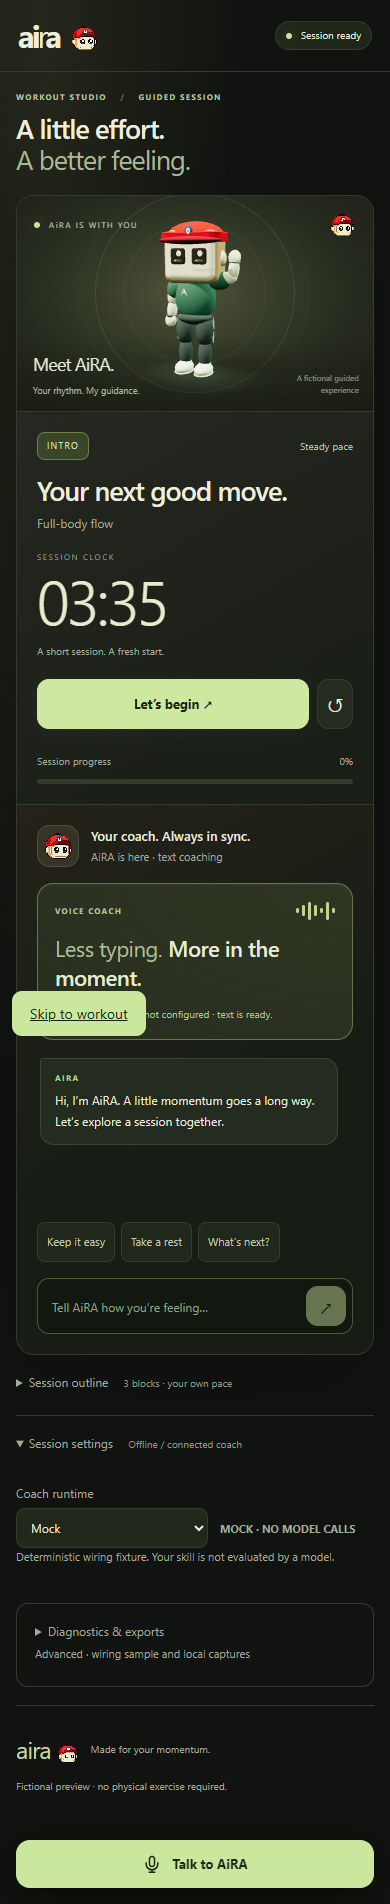
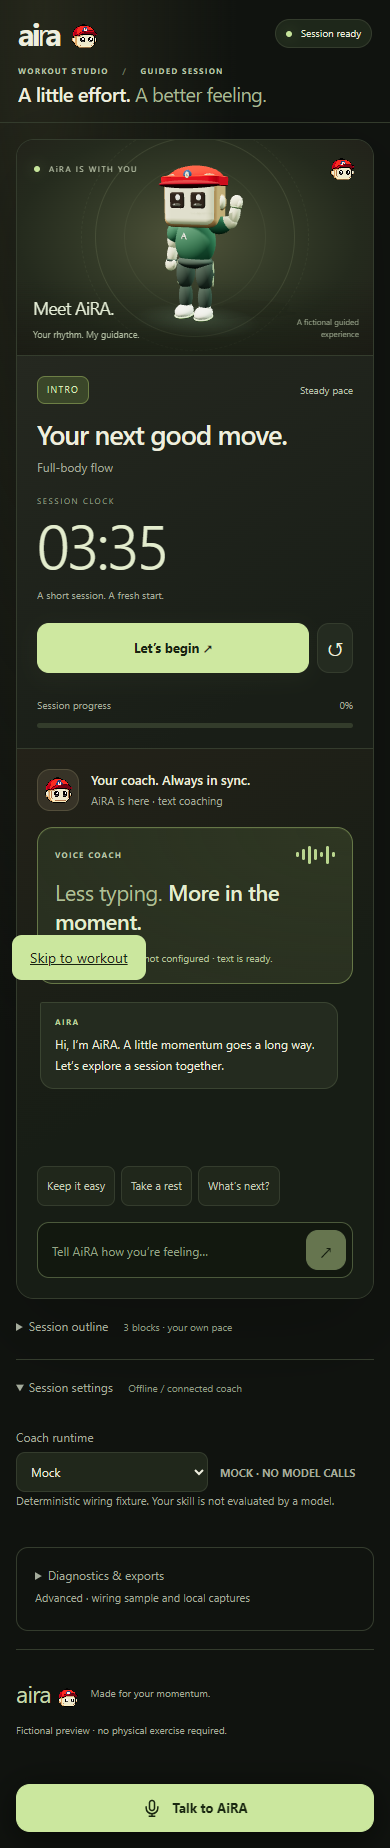
Phase 1 MVP: compact studio heading into header

diff --git a/src/web/styles.css b/src/web/styles.css
@@ -1,14 +1,14 @@
 /* AiRA studio — local, responsive, with state-driven voice feedback. */
 :root{color-scheme:dark;--ink:#eeeede;--muted:#a4ab9b;--paper:#10130f;--green:#cee8a0;--line:#343c2d;--surface:#191e17;--brown:#352d24;--serif:'Segoe UI',Arial,sans-serif}
-*{box-sizing:border-box}body{margin:0;background:radial-gradient(ellipse at 10% 0%,#25271b 0%,transparent 40%),var(--paper);color:var(--ink);font:14px/1.5 'Segoe UI',Arial,sans-serif}button,input,textarea,select{font:inherit}a{color:inherit}h1,h2,h3,p{margin:0}button{cursor:pointer;min-height:44px;padding:10px 16px;color:var(--ink);background:#242b20;border:1px solid var(--line);border-radius:12px;transition:background .2s,border-color .2s,transform .2s}button:hover:not(:disabled){background:#333f29;border-color:#65744d;transform:translateY(-1px)}button:disabled{opacity:.45;cursor:default}button.primary{background:var(--green);color:#192411;border-color:var(--green);font-weight:650;box-shadow:0 5px 20px #bedf7a0b}button.primary:hover:not(:disabled){background:#e0f6b9;border-color:#e0f6b9}button:focus-visible,input:focus-visible,textarea:focus-visible,select:focus-visible,summary:focus-visible,a:focus-visible{outline:2px solid #d5eca8;outline-offset:4px}button[aria-pressed=true]{border-color:#b5d27e;background:#384429}.topbar{max-width:1500px;padding:24px 36px;margin:auto;display:flex;align-items:center;justify-content:space-between;border-bottom:1px solid var(--line);gap:16px}.brand{text-decoration:none;font-size:36px;font-weight:700;letter-spacing:-3px;line-height:1;display:flex;align-items:center}.brand>span:first-child{font-weight:400}.brand-dot{margin-left:10px;letter-spacing:0}.header-note{font-size:10px;letter-spacing:2px;color:var(--muted)}.session-badge{display:flex;align-items:center;gap:9px;border:1px solid var(--line);border-radius:30px;padding:7px 13px;font-size:11px;background:#1e271a}.session-badge i,.live-dot{height:6px;width:6px;border-radius:50%;background:#c6e49b;box-shadow:0 0 12px #bde27c55;display:inline-block}main{max-width:1500px;padding:0 36px;margin:auto}.session-heading{display:flex;justify-content:space-between;align-items:flex-end;gap:20px;padding:29px 0 25px}.eyebrow{font-size:9px;font-weight:650;letter-spacing:1.8px;color:#b9c5a8}.heading-divider{margin:0 10px;color:#68745c}h1{font-size:clamp(25px,3vw,38px);letter-spacing:-1.6px;font-weight:600;line-height:1.15;margin-top:10px}h1 span{color:#a8b995;font-weight:400}.heading-note{font-size:12px;line-height:1.8;color:var(--muted)}.session-card{display:grid;grid-template-columns:260px minmax(260px,1fr) 370px;border:1px solid var(--line);border-radius:24px;overflow:hidden;background:var(--surface);box-shadow:0 28px 90px #0003;min-height:620px}.session-main{padding:28px 24px;display:flex;flex-direction:column;min-width:0;background:linear-gradient(150deg,#252820,#191e17 80%);border-right:1px solid var(--line)}.session-topline{display:flex;align-items:center;justify-content:space-between;gap:8px;margin-bottom:30px}.phase-pill{font-size:9px;letter-spacing:1.2px;text-transform:uppercase;border:1px solid #6d7f45;background:#3a4629;color:#d9ebbc;border-radius:8px;padding:6px 9px}.pace-label{font-size:10px;color:#b7c0aa}.session-main h2{font-size:29px;font-weight:550;letter-spacing:-1px;line-height:1.15;text-wrap:balance;min-height:1.1em}.movement-label{font-size:12px;color:var(--muted);margin-top:12px;line-height:1.7}.timer-display{display:flex;flex-direction:column;padding:34px 0 24px;min-height:174px}.timer-eyebrow{font-size:9px;letter-spacing:1.6px;color:#98a18a}.timer-display #session-timer{font-size:72px;line-height:1.2;letter-spacing:-4px;font-weight:350;font-variant-numeric:tabular-nums;display:inline-block;min-width:3.1ch;color:#e3eccd}.timer-display #timer-caption{font-size:11px;color:var(--muted);margin-top:6px}.session-controls{display:flex;flex-wrap:wrap;gap:8px;margin:22px 0}.session-controls .primary{flex:1 1 100%;font-size:13px;padding:14px 16px}.session-controls button:not(.primary){font-size:11px;flex:1;white-space:nowrap;padding:9px}.session-controls .icon-button{max-width:44px;font-size:20px!important}#session-progress{margin-top:auto;padding-top:30px}.session-progress{display:grid;grid-template-columns:1fr auto;gap:10px;font-size:10px;color:var(--muted)}.progress-track{grid-column:1/-1;height:5px;background:#333c2b;border-radius:8px;overflow:hidden}.progress-fill{height:100%;border-radius:8px;background:linear-gradient(90deg,#899f61,#d7eead);transition:width .4s ease}.energy-options{display:flex;flex-wrap:wrap;gap:7px;margin-top:15px}.energy-options button{font-size:11px;padding:8px 10px;min-height:44px}.adaptation-note{margin-top:15px;padding:12px;border:1px solid #53633b;border-radius:10px;background:#2c3622;color:#d2e2b8;font-size:11px;line-height:1.7}
+*{box-sizing:border-box}body{margin:0;background:radial-gradient(ellipse at 10% 0%,#25271b 0%,transparent 40%),var(--paper);color:var(--ink);font:14px/1.5 'Segoe UI',Arial,sans-serif}button,input,textarea,select{font:inherit}a{color:inherit}h1,h2,h3,p{margin:0}button{cursor:pointer;min-height:44px;padding:10px 16px;color:var(--ink);background:#242b20;border:1px solid var(--line);border-radius:12px;transition:background .2s,border-color .2s,transform .2s}button:hover:not(:disabled){background:#333f29;border-color:#65744d;transform:translateY(-1px)}button:disabled{opacity:.45;cursor:default}button.primary{background:var(--green);color:#192411;border-color:var(--green);font-weight:650;box-shadow:0 5px 20px #bedf7a0b}button.primary:hover:not(:disabled){background:#e0f6b9;border-color:#e0f6b9}button:focus-visible,input:focus-visible,textarea:focus-visible,select:focus-visible,summary:focus-visible,a:focus-visible{outline:2px solid #d5eca8;outline-offset:4px}button[aria-pressed=true]{border-color:#b5d27e;background:#384429}.topbar{max-width:1500px;padding:20px 36px;margin:auto;display:flex;align-items:center;justify-content:space-between;border-bottom:1px solid var(--line);gap:16px}.brand{text-decoration:none;font-size:36px;font-weight:700;letter-spacing:-3px;line-height:1;display:flex;align-items:center}.brand>span:first-child{font-weight:400}.brand-dot{margin-left:10px;letter-spacing:0}.session-badge{display:flex;align-items:center;gap:9px;border:1px solid var(--line);border-radius:30px;padding:7px 13px;font-size:11px;background:#1e271a}.session-badge i,.live-dot{height:6px;width:6px;border-radius:50%;background:#c6e49b;box-shadow:0 0 12px #bde27c55;display:inline-block}main{max-width:1500px;padding:20px 36px 0;margin:auto}.session-heading{display:flex;align-items:center;justify-content:space-between;flex:1;min-width:0;gap:24px;margin-left:24px}.eyebrow{font-size:9px;font-weight:650;letter-spacing:1.8px;color:#b9c5a8}.heading-divider{margin:0 10px;color:#68745c}h1{font-size:clamp(18px,1.8vw,24px);letter-spacing:-.7px;font-weight:600;line-height:1.25;margin-top:5px}h1 span{color:#a8b995;font-weight:400}.heading-note{font-size:11px;line-height:1.6;color:var(--muted);flex-shrink:0}.session-badge{flex-shrink:0}.session-card{display:grid;grid-template-columns:260px minmax(260px,1fr) 370px;border:1px solid var(--line);border-radius:24px;overflow:hidden;background:var(--surface);box-shadow:0 28px 90px #0003;min-height:620px}.session-main{padding:28px 24px;display:flex;flex-direction:column;min-width:0;background:linear-gradient(150deg,#252820,#191e17 80%);border-right:1px solid var(--line)}.session-topline{display:flex;align-items:center;justify-content:space-between;gap:8px;margin-bottom:30px}.phase-pill{font-size:9px;letter-spacing:1.2px;text-transform:uppercase;border:1px solid #6d7f45;background:#3a4629;color:#d9ebbc;border-radius:8px;padding:6px 9px}.pace-label{font-size:10px;color:#b7c0aa}.session-main h2{font-size:29px;font-weight:550;letter-spacing:-1px;line-height:1.15;text-wrap:balance;min-height:1.1em}.movement-label{font-size:12px;color:var(--muted);margin-top:12px;line-height:1.7}.timer-display{display:flex;flex-direction:column;padding:34px 0 24px;min-height:174px}.timer-eyebrow{font-size:9px;letter-spacing:1.6px;color:#98a18a}.timer-display #session-timer{font-size:72px;line-height:1.2;letter-spacing:-4px;font-weight:350;font-variant-numeric:tabular-nums;display:inline-block;min-width:3.1ch;color:#e3eccd}.timer-display #timer-caption{font-size:11px;color:var(--muted);margin-top:6px}.session-controls{display:flex;flex-wrap:wrap;gap:8px;margin:22px 0}.session-controls .primary{flex:1 1 100%;font-size:13px;padding:14px 16px}.session-controls button:not(.primary){font-size:11px;flex:1;white-space:nowrap;padding:9px}.session-controls .icon-button{max-width:44px;font-size:20px!important}#session-progress{margin-top:auto;padding-top:30px}.session-progress{display:grid;grid-template-columns:1fr auto;gap:10px;font-size:10px;color:var(--muted)}.progress-track{grid-column:1/-1;height:5px;background:#333c2b;border-radius:8px;overflow:hidden}.progress-fill{height:100%;border-radius:8px;background:linear-gradient(90deg,#899f61,#d7eead);transition:width .4s ease}.energy-options{display:flex;flex-wrap:wrap;gap:7px;margin-top:15px}.energy-options button{font-size:11px;padding:8px 10px;min-height:44px}.adaptation-note{margin-top:15px;padding:12px;border:1px solid #53633b;border-radius:10px;background:#2c3622;color:#d2e2b8;font-size:11px;line-height:1.7}
 .trainer-stage{position:relative;min-width:0;overflow:hidden;display:flex;flex-direction:column;align-items:center;justify-content:center;min-height:620px;background:radial-gradient(ellipse at 48% 45%,#50543a 0%,#343b28 36%,#242a1d 65%,#211f19 100%)}.trainer-stage:after{content:'';position:absolute;inset:0;background:linear-gradient(0deg,#13170e75,transparent 35%);pointer-events:none}.trainer-topline{position:absolute;inset:24px 24px auto;display:flex;align-items:center;gap:9px;font-size:9px;letter-spacing:1.5px;color:#c1cbb0;z-index:2}.trainer-symbol{margin-left:auto}.trainer-orbit{position:absolute;top:50%;left:50%;transform:translate(-50%,-52%);width:min(90%,470px);aspect-ratio:1;border:1px solid #bdd29a20;border-radius:50%;pointer-events:none}.trainer-orbit:before,.trainer-orbit:after{content:'';position:absolute;border-radius:50%;border:1px solid #bdd29a10;inset:28px}.trainer-orbit:before{inset:-32px;border-style:dashed}#trainer-mount{height:470px;width:100%;position:relative;margin-top:10px;z-index:1}.trainer-view{height:100%;width:100%;min-height:200px;position:relative}.trainer-view canvas{display:block;width:100%;height:100%;opacity:0;transition:opacity .35s ease}.trainer-view[data-loaded=true] canvas{opacity:1}.trainer-fallback{position:absolute;inset:0;display:grid;place-items:center;padding:30px;text-align:center;color:#d1ddbd;font-size:13px}.trainer-fallback:before{content:'';position:absolute;top:26%;left:50%;transform:translateX(-50%);width:72px;height:72px;background:url('/web/assets/aira-sticker.png') center/contain no-repeat;image-rendering:pixelated}.trainer-signature{text-align:center;position:relative;z-index:2;display:flex;flex-direction:column;gap:6px;margin-top:-10px}.trainer-name{font-size:26px;letter-spacing:-.8px;color:#e3ecd5}.trainer-signature>span:last-child{font-size:11px;color:#b0bca0}.stage-caption{position:relative;font-size:9px;color:#98a48a;margin-top:18px;z-index:2;letter-spacing:.8px}
 .interaction-panel{min-width:0;background:linear-gradient(150deg,#242219,#171d15 55%);border-left:1px solid var(--line);display:flex;flex-direction:column;padding:24px;gap:15px}.coach-bar{display:flex;flex-direction:column;gap:16px;flex:1;min-height:0}.coach-identity{display:flex;align-items:center;gap:12px}.coach-avatar{display:grid;place-items:center;width:42px;height:42px;border-radius:13px;background:#373327;border:1px solid #534e3b;flex-shrink:0;transition:box-shadow .2s}.coach-identity h2{font-size:13px;font-weight:600}.coach-identity p{font-size:11px;color:var(--muted);margin-top:4px;line-height:1.5}.voice-spotlight{padding:18px;border:1px solid #667747;border-radius:16px;background:radial-gradient(ellipse at 100% 0%,#4c593029,transparent 80%),#293020;box-shadow:inset 0 1px #cce9960d}.voice-spotlight-top{display:flex;justify-content:space-between;align-items:center;margin-bottom:13px}.voice-spotlight p{font-size:19px;line-height:1.35;letter-spacing:-.5px;color:#aebf95}.voice-spotlight strong{font-weight:500;color:#e4edcf}.voice-button{width:100%;background:#cbe79e;border:1px solid #cbe79e;color:#1a2811;font-size:13px;min-height:48px;display:flex;justify-content:center;align-items:center;gap:10px;margin-top:17px;font-weight:650;box-shadow:0 4px 22px #aaca6c12}.voice-button:hover:not(:disabled){background:#e0f5bd;color:#192411}.voice-icon{display:flex}.voice-helper{display:block;text-align:center;font-size:10px;color:#b3c299;margin-top:10px}.voice-wave{display:flex;align-items:center;gap:3px;height:20px}.voice-wave i{width:3px;height:5px;border-radius:3px;background:#b9d58e}.voice-wave i:nth-child(2n){height:11px}.voice-wave i:nth-child(3n){height:18px}.coach-bar:has(#session-voice[data-state=listening]) .voice-wave i,.coach-bar:has(#session-voice[data-state=speaking]) .voice-wave i{animation:voice-wave 1s ease-in-out infinite alternate}.voice-wave i:nth-child(2n){animation-delay:-.3s!important}.voice-wave i:nth-child(3n){animation-delay:-.6s!important}.voice-button[data-state=listening],.voice-button[data-state=speaking]{box-shadow:0 0 0 3px #c5e49320,0 0 28px #c5e49320}.coach-bar:has(#session-voice[data-state=thinking]) .voice-wave{opacity:.5}.voice-button[data-state=error]{background:#dfc199;border-color:#dfc199}.coach-bar:has(#session-voice[data-state=listening]) .coach-avatar,.coach-bar:has(#session-voice[data-state=speaking]) .coach-avatar{box-shadow:0 0 0 3px #c5e49320}.coach-history{flex:1;min-height:140px;max-height:235px;overflow:auto;overscroll-behavior:contain;scrollbar-width:thin;scrollbar-color:#536340 transparent;display:flex;flex-direction:column;gap:13px;padding:2px 3px 5px;overflow-wrap:anywhere}.chat-message{padding:12px 14px;border:1px solid #3a4431;background:#242b1f;border-radius:2px 14px 14px 14px;font-size:12px;line-height:1.75;max-width:96%;flex-shrink:0}.chat-speaker{display:block;color:#bdd39e;text-transform:uppercase;font-size:8px;font-weight:650;letter-spacing:1.4px;margin-bottom:5px}.chat-user{align-self:flex-end;background:#342d24;border-color:#4c4130;border-radius:14px 2px 14px 14px}.chat-user .chat-speaker{color:#d7ba8e}.coach-shortcuts{display:flex;flex-wrap:wrap;gap:6px}.coach-shortcuts button{font-size:10px;min-height:32px;padding:5px 9px;border-radius:8px;background:#20271b;color:#c5cdb8}#coach-composer{display:flex;align-items:center;gap:6px;padding:5px 6px 5px 12px;background:#12180f;border:1px solid #4b593b;border-radius:12px}#coach-input{background:none;border:0;color:var(--ink);font-size:16px;min-height:44px;min-width:0;width:100%}#coach-input::placeholder{font-size:12px;color:#96a486}#coach-composer button{width:40px;height:40px;min-height:40px;flex-shrink:0;padding:0;background:#cbe79e;border-color:#cbe79e;color:#1a2811;font-size:19px}.last-input{display:none}.voice-note{font-size:12px;line-height:1.7;padding:12px;background:#2d3323;border-radius:10px;color:#c0c9b0}.voice-panel{padding:18px;border:1px solid #56663d;border-radius:14px;background:#1b2316}.voice-heading{display:flex;align-items:flex-start;justify-content:space-between;gap:12px}.voice-heading h2{font-size:18px;letter-spacing:-.5px;margin:6px 0 12px}.voice-state{font-size:10px;color:#c8d4b6;display:flex;align-items:center;gap:7px;max-width:120px}.voice-state:before{content:'';height:7px;width:7px;border-radius:50%;background:#8c947f;flex-shrink:0}.voice-panel[data-state=listening] .voice-state:before,.voice-panel[data-state=speaking] .voice-state:before{background:#cbe79e;box-shadow:0 0 0 4px #cbe79e15}.voice-panel[data-state=thinking] .voice-state:before{background:#dbbe8f;animation:voice-pulse 1s infinite}.voice-consent{display:flex;align-items:flex-start;gap:9px;font-size:11px;line-height:1.7;margin:15px 0;color:#bdc7af}.voice-consent input{margin-top:4px;flex-shrink:0;accent-color:#bcd893}.voice-controls{display:flex;flex-wrap:wrap;gap:7px}.voice-controls button{font-size:11px;padding:8px 10px;flex:1 1 auto}.voice-controls .primary{flex-basis:100%}.voice-transcript-details{margin:14px 0}.voice-transcript-details summary{font-size:11px;min-height:44px;padding-top:12px}.voice-transcript{max-height:180px;overflow:auto;overflow-wrap:anywhere;font-size:12px}.voice-transcript p{padding:10px;background:#2b3422;border-radius:9px;margin-top:8px}#voice-empty{padding:10px 0}#voice-error{padding:12px;background:#392b23;border:1px solid #704b32;border-radius:10px;color:#efc4a1;font-size:12px;margin-top:12px}
 .session-plan,.settings{border-bottom:1px solid var(--line);padding:18px 0;color:var(--muted);font-size:12px}summary{cursor:pointer;list-style-position:inside;min-height:24px}summary>span{font-size:10px;color:#909d83;margin-left:12px}#session-path{display:grid;grid-template-columns:repeat(10,1fr);list-style:none;margin:20px 0 0;padding:0;gap:8px}#session-path li{border-top:2px solid #434c36;padding-top:10px;display:flex;flex-direction:column;gap:3px;font-size:10px;text-transform:capitalize;color:#9ba68f}#session-path li.current{color:#d8eaba;border-color:#c5e395}#session-path li.done{border-color:#809a5c}.step-number{font-size:9px}.provider-panel{padding:16px 0}.micro{font-size:11px;color:var(--muted);line-height:1.7}.provider-panel strong{font-size:11px;margin-left:12px}label{display:block;margin:10px 0 6px}select,textarea{background:#20271b;color:var(--ink);border:1px solid var(--line);border-radius:9px;padding:10px}textarea{width:100%;resize:vertical}.provider-panel select{max-width:100%}.builder{margin-top:20px;padding:18px;border:1px solid var(--line);border-radius:12px}.row{display:flex;align-items:center;gap:10px;flex-wrap:wrap;margin:12px 0}.workspace,.tools-grid{display:grid;grid-template-columns:1fr 1fr;gap:20px;margin-top:20px}.conversation,.preview,.tools-grid>section{background:#1b2216;border:1px solid var(--line);border-radius:12px;padding:20px;min-width:0}.panel-heading{display:flex;justify-content:space-between;align-items:center;margin-bottom:14px}.panel-heading h2,.spoken h2{font-size:14px}#transcript{height:245px;overflow:auto;overflow-wrap:anywhere}.message{padding:12px 0;border-bottom:1px solid var(--line)}.who,.event{font-size:10px;color:var(--muted)}.event{margin:8px 0}.notice,#error,.alert{padding:12px;background:#303827;border-radius:9px}#screen{min-height:260px}.empty{padding:40px 0}.empty h3{font-size:25px;margin:10px 0}.block{padding:12px 0}.block-title{font-size:26px}.block-subtitle{font-size:20px}.keyword{text-align:center;padding:22px}.keyword strong,.timer strong{font-size:42px;font-variant-numeric:tabular-nums}.timer{padding:15px 0}.timer-status{margin-left:15px}.spoken{border-top:1px solid var(--line);margin-top:15px;padding-top:15px}.progress{display:flex;gap:4px}.progress span{height:3px;background:#434c36;flex:1}.progress span.active{background:var(--green)}pre{max-height:300px;overflow:auto;white-space:pre-wrap;overflow-wrap:anywhere;background:#11180e;padding:12px}.coach-panel{display:flex;gap:14px}.coach-spark{width:28px;height:28px}.coach-panel p{font-size:13px;line-height:1.7}footer{display:flex;align-items:center;gap:20px;padding:25px 0 30px;font-size:10px;color:var(--muted)}footer>span:last-child{margin-left:auto}.footer-brand{text-decoration:none;font-size:24px;letter-spacing:-1px;color:#c6d9ab}.mascot-sticker{display:inline-block;width:28px;height:28px;object-fit:contain;image-rendering:pixelated;vertical-align:middle;flex-shrink:0}.brand-dot .mascot-sticker{width:30px;height:30px}.coach-avatar .mascot-sticker{width:32px;height:32px}.footer-brand .mascot-sticker{width:23px;height:23px;margin-left:5px}.sr-only{position:absolute;width:1px;height:1px;margin:-1px;padding:0;overflow:hidden;clip:rect(0,0,0,0);white-space:nowrap;border:0}.skip-link{position:fixed;top:12px;left:12px;z-index:20;padding:12px 18px;background:#cbe79e;color:#192411;border-radius:10px;transform:translateY(-180%)}.skip-link:focus{transform:none}[hidden]{display:none!important}@keyframes voice-wave{to{transform:scaleY(.4);opacity:.6}}@keyframes voice-pulse{50%{opacity:.4}}
 @media(min-width:1500px){.session-card{grid-template-columns:280px minmax(300px,1fr) 390px;min-height:650px}.trainer-stage{min-height:650px}#trainer-mount{height:500px}.interaction-panel{padding:28px}}
-@media(max-width:1150px){main{padding:0 24px}.topbar{padding:22px 24px}.session-card{grid-template-columns:220px minmax(210px,1fr) 320px}.session-main{padding:24px 18px}.session-main h2{font-size:26px}.interaction-panel{padding:18px}.timer-display #session-timer{font-size:65px}.voice-spotlight{padding:16px}#trainer-mount{height:440px}.trainer-signature{margin-top:0}}
-@media(max-width:900px){.session-card{grid-template-columns:1fr 1fr}.session-main{grid-column:1;grid-row:1}.trainer-stage{grid-column:2;grid-row:1;min-height:500px}.interaction-panel{grid-column:1/-1;border-left:0;border-top:1px solid var(--line)}.coach-bar{display:grid;grid-template-columns:1fr 1fr}.coach-identity{grid-column:1/-1}.voice-spotlight{grid-column:1;grid-row:2/5}.coach-history{grid-column:2;grid-row:2;max-height:200px;min-height:120px}.coach-shortcuts{grid-column:2;grid-row:3}#coach-composer{grid-column:2;grid-row:4}.voice-note{grid-column:1/-1}.voice-panel{max-width:none}.heading-note{display:none}.header-note{font-size:9px}.session-main h2{font-size:30px}.timer-display #session-timer{font-size:76px}.session-controls .primary{flex:0 1 auto}.session-controls button:not(.primary){flex:0 1 auto}.session-controls .icon-button{margin-left:auto}#session-progress{padding-top:20px}}
-@media(max-width:620px){main{padding:0 16px}.topbar{padding:18px 18px}.brand{font-size:31px}.header-note{display:none}.session-badge{font-size:10px;padding:6px 10px}.session-heading{padding:19px 0 20px}h1{font-size:27px;letter-spacing:-1px;max-width:310px}h1 span{display:block}.eyebrow{font-size:8px;letter-spacing:1.3px}.session-card{display:flex;flex-direction:column;border-radius:18px}.trainer-stage{order:0;height:215px;min-height:215px}.trainer-topline{inset:15px 17px auto;font-size:8px}.trainer-orbit{width:200px;top:47%}.trainer-orbit:before{inset:-15px}#trainer-mount{height:215px;margin:0}.trainer-signature{position:absolute;left:16px;bottom:14px;text-align:left;margin:0}.trainer-name{font-size:18px}.trainer-signature>span:last-child{font-size:9px}.stage-caption{position:absolute;right:14px;bottom:15px;font-size:8px;letter-spacing:0;max-width:80px;text-align:right;margin:0}.session-main{order:1;border-right:0;padding:20px;border-top:1px solid var(--line)}.session-topline{margin-bottom:15px}.session-main h2{font-size:27px}.movement-label{margin-top:7px}.timer-display{padding:18px 0 8px;min-height:125px}.timer-display #session-timer{font-size:62px;letter-spacing:-3px}.timer-eyebrow{font-size:8px}.timer-display #timer-caption{font-size:10px}.session-controls{margin:12px 0 10px}.session-controls .primary{padding:11px 16px;flex:1}.session-controls button:not(.primary){flex:0 1 auto}.session-controls #session-end{padding-inline:9px}#session-progress{padding-top:15px}.interaction-panel{order:2;padding:20px;border-top:1px solid var(--line)}.coach-bar{display:flex;gap:16px}.coach-history{min-height:150px;max-height:240px}.voice-spotlight{padding:17px}.voice-spotlight p{font-size:22px}.voice-spotlight p br{display:none}.voice-spotlight p strong{margin-left:6px}.voice-button{margin-top:15px}.coach-shortcuts button{min-height:40px;font-size:11px}#coach-composer{width:100%}.voice-heading{gap:10px}.voice-consent{font-size:12px}.voice-controls button{min-height:44px}#session-path{grid-template-columns:repeat(5,1fr);row-gap:16px}.workspace,.tools-grid{grid-template-columns:1fr}.session-plan,.settings{padding:18px 0}.builder summary>span{display:block;margin:5px 0}footer{flex-wrap:wrap;gap:12px}footer>span:last-child{margin-left:0;width:100%}}
-@media(max-width:360px){main{padding:0 12px}.session-main,.interaction-panel{padding:17px}.session-main h2{font-size:25px}.session-controls{gap:6px}.session-controls button{font-size:10px}.session-controls .primary{padding-inline:12px}.voice-spotlight p{font-size:20px}.voice-spotlight p strong{margin-left:0}}
+@media(max-width:1150px){main{padding:20px 24px 0}.topbar{padding:22px 24px}.session-card{grid-template-columns:220px minmax(210px,1fr) 320px}.session-main{padding:24px 18px}.session-main h2{font-size:26px}.interaction-panel{padding:18px}.timer-display #session-timer{font-size:65px}.voice-spotlight{padding:16px}#trainer-mount{height:440px}.trainer-signature{margin-top:0}}
+@media(max-width:900px){.session-card{grid-template-columns:1fr 1fr}.session-main{grid-column:1;grid-row:1}.trainer-stage{grid-column:2;grid-row:1;min-height:500px}.interaction-panel{grid-column:1/-1;border-left:0;border-top:1px solid var(--line)}.coach-bar{display:grid;grid-template-columns:1fr 1fr}.coach-identity{grid-column:1/-1}.voice-spotlight{grid-column:1;grid-row:2/5}.coach-history{grid-column:2;grid-row:2;max-height:200px;min-height:120px}.coach-shortcuts{grid-column:2;grid-row:3}#coach-composer{grid-column:2;grid-row:4}.voice-note{grid-column:1/-1}.voice-panel{max-width:none}.heading-note{display:none}.session-heading{margin-left:8px}.session-main h2{font-size:30px}.timer-display #session-timer{font-size:76px}.session-controls .primary{flex:0 1 auto}.session-controls button:not(.primary){flex:0 1 auto}.session-controls .icon-button{margin-left:auto}#session-progress{padding-top:20px}}
+@media(max-width:620px){main{padding:16px 16px 0}.topbar{padding:16px 18px;display:grid;grid-template-columns:1fr auto;gap:14px}.brand{font-size:31px}.session-badge{font-size:10px;padding:6px 10px}.session-heading{grid-column:1/-1;grid-row:2;margin:0;gap:8px}.session-badge{grid-column:2;grid-row:1}h1{font-size:20px;letter-spacing:-.6px;margin-top:4px}.eyebrow{font-size:8px;letter-spacing:1.3px}.session-card{display:flex;flex-direction:column;border-radius:18px}.trainer-stage{order:0;height:215px;min-height:215px}.trainer-topline{inset:15px 17px auto;font-size:8px}.trainer-orbit{width:200px;top:47%}.trainer-orbit:before{inset:-15px}#trainer-mount{height:215px;margin:0}.trainer-signature{position:absolute;left:16px;bottom:14px;text-align:left;margin:0}.trainer-name{font-size:18px}.trainer-signature>span:last-child{font-size:9px}.stage-caption{position:absolute;right:14px;bottom:15px;font-size:8px;letter-spacing:0;max-width:80px;text-align:right;margin:0}.session-main{order:1;border-right:0;padding:20px;border-top:1px solid var(--line)}.session-topline{margin-bottom:15px}.session-main h2{font-size:27px}.movement-label{margin-top:7px}.timer-display{padding:18px 0 8px;min-height:125px}.timer-display #session-timer{font-size:62px;letter-spacing:-3px}.timer-eyebrow{font-size:8px}.timer-display #timer-caption{font-size:10px}.session-controls{margin:12px 0 10px}.session-controls .primary{padding:11px 16px;flex:1}.session-controls button:not(.primary){flex:0 1 auto}.session-controls #session-end{padding-inline:9px}#session-progress{padding-top:15px}.interaction-panel{order:2;padding:20px;border-top:1px solid var(--line)}.coach-bar{display:flex;gap:16px}.coach-history{min-height:150px;max-height:240px}.voice-spotlight{padding:17px}.voice-spotlight p{font-size:22px}.voice-spotlight p br{display:none}.voice-spotlight p strong{margin-left:6px}.voice-button{margin-top:15px}.coach-shortcuts button{min-height:40px;font-size:11px}#coach-composer{width:100%}.voice-heading{gap:10px}.voice-consent{font-size:12px}.voice-controls button{min-height:44px}#session-path{grid-template-columns:repeat(5,1fr);row-gap:16px}.workspace,.tools-grid{grid-template-columns:1fr}.session-plan,.settings{padding:18px 0}.builder summary>span{display:block;margin:5px 0}footer{flex-wrap:wrap;gap:12px}footer>span:last-child{margin-left:0;width:100%}}
+@media(max-width:360px){main{padding:14px 12px 0}.session-main,.interaction-panel{padding:17px}.session-main h2{font-size:25px}.session-controls{gap:6px}.session-controls button{font-size:10px}.session-controls .primary{padding-inline:12px}.voice-spotlight p{font-size:20px}.voice-spotlight p strong{margin-left:0}}
 @media(prefers-reduced-motion:reduce){*,*:before,*:after{animation:none!important;transition:none!important;scroll-behavior:auto!important}}
 
 /* Keep voice in thumb reach on mobile; release the dock while composing text. */

diff --git a/src/web/index.html b/src/web/index.html
@@ -3,9 +3,8 @@
 <head><meta charset="utf-8"><meta name="viewport" content="width=device-width, initial-scale=1"><meta name="theme-color" content="#10130f"><title>AiRA · A little momentum</title><link rel="icon" type="image/png" href="/web/assets/aira-sticker.png"><link rel="stylesheet" href="/web/styles.css"><script type="module" src="/web/app.js"></script></head>
 <body>
 <a class="skip-link" href="#workout">Skip to workout</a>
-<header class="topbar"><a href="/" class="brand" aria-label="AiRA home">ai<span>r</span>a<span class="brand-dot"><img class="mascot-sticker" src="/web/assets/aira-sticker.png" width="28" height="28" alt="" aria-hidden="true"></span></a><span class="header-note">YOUR PERSONAL TRAINING SPACE</span><span class="session-badge"><i></i> <span id="session-status-label">Session ready</span></span></header>
+<header class="topbar"><a href="/" class="brand" aria-label="AiRA home">ai<span>r</span>a<span class="brand-dot"><img class="mascot-sticker" src="/web/assets/aira-sticker.png" width="28" height="28" alt="" aria-hidden="true"></span></a><div class="session-heading"><div><p class="eyebrow">WORKOUT STUDIO <span class="heading-divider">/</span> GUIDED SESSION</p><h1>A little effort. <span>A better feeling.</span></h1></div><p class="heading-note">3 blocks. Your own pace.<br>One coach, every step.</p></div><span class="session-badge"><i></i> <span id="session-status-label">Session ready</span></span></header>
 <main id="workout" tabindex="-1">
-<div class="session-heading"><div><p class="eyebrow">WORKOUT STUDIO <span class="heading-divider">/</span> GUIDED SESSION</p><h1>A little effort. <span>A better feeling.</span></h1></div><p class="heading-note">3 blocks. Your own pace.<br>One coach, every step.</p></div>
 <section class="session-card" aria-label="AiRA workout session">
 <div class="session-main">
 <div class="session-topline"><span id="session-phase" class="phase-pill" role="status" aria-live="polite" aria-atomic="true">intro</span><span id="session-difficulty" class="pace-label">Steady pace</span></div>
